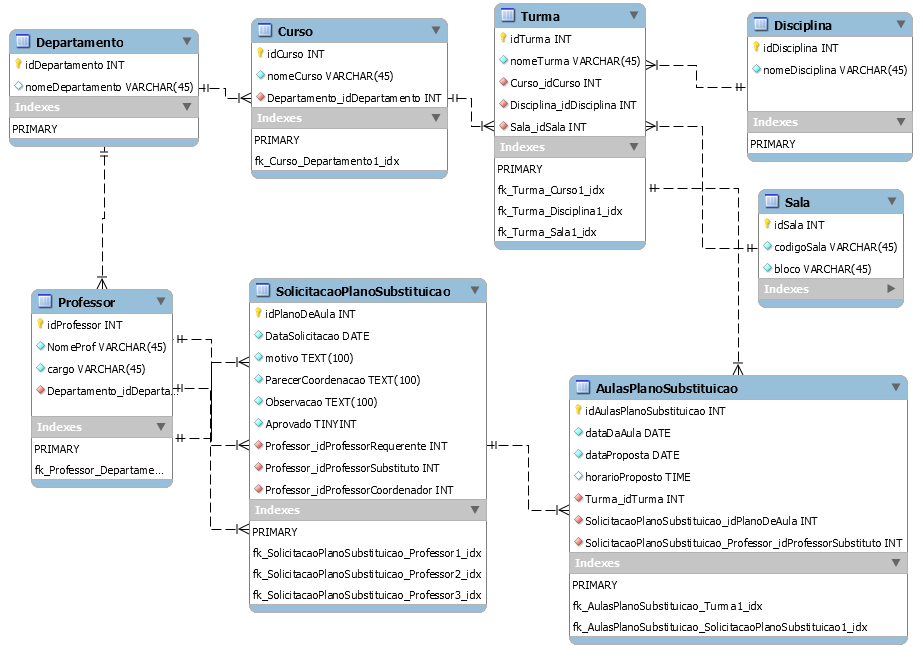
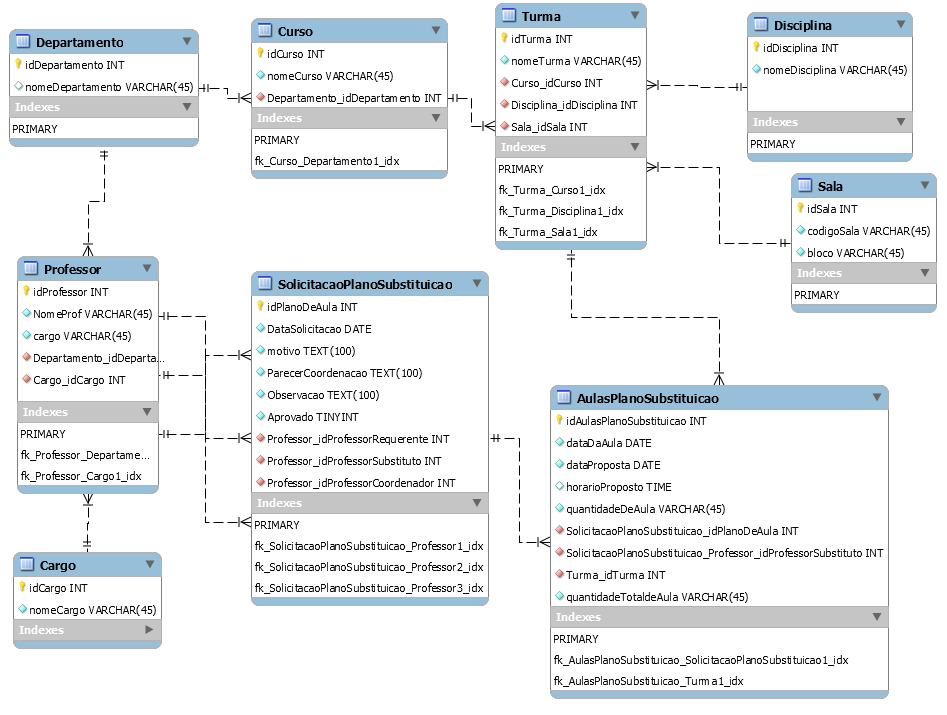
Atualização com os Controllers
Atualização com os Controllers

diff --git a/src/main/java/br/utfpr/architecture/controllers/substituicaoService.java b/src/main/java/br/utfpr/architecture/controllers/substituicaoService.java
@@ -1,0 +1,77 @@
+package br.utfpr.architecture.controllers;
+
+import br.utfpr.architecture.Entity.AulasDoPlanoSubstituicao;
+import br.utfpr.architecture.Entity.Professor;
+import br.utfpr.architecture.Entity.SolicitacaoPlanoDeSubstituicao;
+import java.io.File;
+import java.io.FileNotFoundException;
+import java.io.FileOutputStream;
+import java.io.InputStream;
+import java.util.List;
+import javax.swing.JOptionPane;
+import org.springframework.beans.factory.annotation.Autowired;
+import org.springframework.web.bind.annotation.GetMapping;
+import org.springframework.web.bind.annotation.PathVariable;
+import org.springframework.web.bind.annotation.RequestMapping;
+import org.springframework.web.bind.annotation.RestController;
+
+
+
+@RestController
+public class substituicaoService {
+
+	@Autowired
+	private substituicaoService substituicaoService;
+
+	@GetMapping("/solicitacao")
+	public List<SolicitacaoPlanoDeSubstituicao> PlanodeSolicitacao(@PathVariable Long idPlanoDeAula) {
+		return substituicaoService.retrievePlanoDeAulas(idPlanoDeAula);
+	}
+        
+        
+        @Autowired
+	private substituicaoService aulaPlanoService;
+        @GetMapping("/solicitacao/aulaPlano")
+        
+	public List<AulasDoPlanoSubstituicao> retrieveAulasForSolicitacao(@PathVariable Long idAulaPlanoSubstituicao) throws Exception {
+	try{
+            
+            if (aulaPlanoService.aulaPlanoService.PlanodeSolicitacao(idAulaPlanoSubstituicao).size() > 6){
+             throw new Exception("Erro: Quantidade de aulas no Plano de aula maior que 6");
+            }
+        }catch(Exception ex){
+             JOptionPane.showMessageDialog(null, ex.getMessage(), "Erro", JOptionPane.ERROR_MESSAGE);
+        }
+            return aulaPlanoService.retrieveAulas(idAulaPlanoSubstituicao);
+	}
+        
+        @Autowired
+	private substituicaoService aprovaPlanoService;
+
+	@GetMapping("/solicitacao/aprovaPlano")
+	public List<SolicitacaoPlanoDeSubstituicao> aprovaPlanodeSolicitacao(@PathVariable Long idPlanoDeAula) {
+		return substituicaoService.retrievePlanoDeAulas(idPlanoDeAula);
+	}
+        
+         @Autowired
+	private substituicaoService enviaListaChamada;
+
+	@GetMapping("/solicitacao/enviarListaChamada")
+        public void upload(String pasta, String nomeDoArquivo,InputStream arquivoCarregado) throws FileNotFoundException {
+            String caminhoArquivo = pasta + "/" + nomeDoArquivo;
+            File novoArquivo = new File(caminhoArquivo);
+            FileOutputStream saida = new FileOutputStream(novoArquivo);
+           
+        }
+        
+        
+        
+
+    private List<SolicitacaoPlanoDeSubstituicao> retrievePlanoDeAulas(Long idPlanoDeAula) {
+        throw new UnsupportedOperationException("Not supported yet."); //To change body of generated methods, choose Tools | Templates.
+    }
+
+    private List<AulasDoPlanoSubstituicao> retrieveAulas(Long idAulaPlanoSubstituicao) {
+        throw new UnsupportedOperationException("Not supported yet."); //To change body of generated methods, choose Tools | Templates.
+    }
+}

diff --git a/src/main/java/br/utfpr/architecture/Entity/SolicitacaoPlanoDeSubstituicao.java b/src/main/java/br/utfpr/architecture/Entity/SolicitacaoPlanoDeSubstituicao.java
@@ -38,10 +38,17 @@ public class SolicitacaoPlanoDeSubstituicao implements Serializable {
     
     @ManyToOne
     private Professor professorCoordenador;
-    @ManyToOne
-    private AulasDoPlanoSubstituicao aulasDoPlanoSubstituicao;
+
 
     public SolicitacaoPlanoDeSubstituicao(String homeprincipal) {
+        throw new UnsupportedOperationException("Not supported yet."); //To change body of generated methods, choose Tools | Templates.
+    }
+
+    public void setIdPlanoDeAula(int i) {
+        throw new UnsupportedOperationException("Not supported yet."); //To change body of generated methods, choose Tools | Templates.
+    }
+
+    public void setIdPlanoDeAula(Long idPlanoDeAula) {
         throw new UnsupportedOperationException("Not supported yet."); //To change body of generated methods, choose Tools | Templates.
     }
 

diff --git a/src/main/java/br/utfpr/architecture/Entity/AulasDoPlanoSubstituicao.java b/src/main/java/br/utfpr/architecture/Entity/AulasDoPlanoSubstituicao.java
@@ -33,6 +33,9 @@ public class AulasDoPlanoSubstituicao implements Serializable {
 
     @ManyToOne
     private Turma turma;
+    
+    @ManyToOne
+    private SolicitacaoPlanoDeSubstituicao idPlanoDeAula;
 
     public AulasDoPlanoSubstituicao(String homesecundaria) {
         throw new UnsupportedOperationException("Not supported yet."); //To change body of generated methods, choose Tools | Templates.
